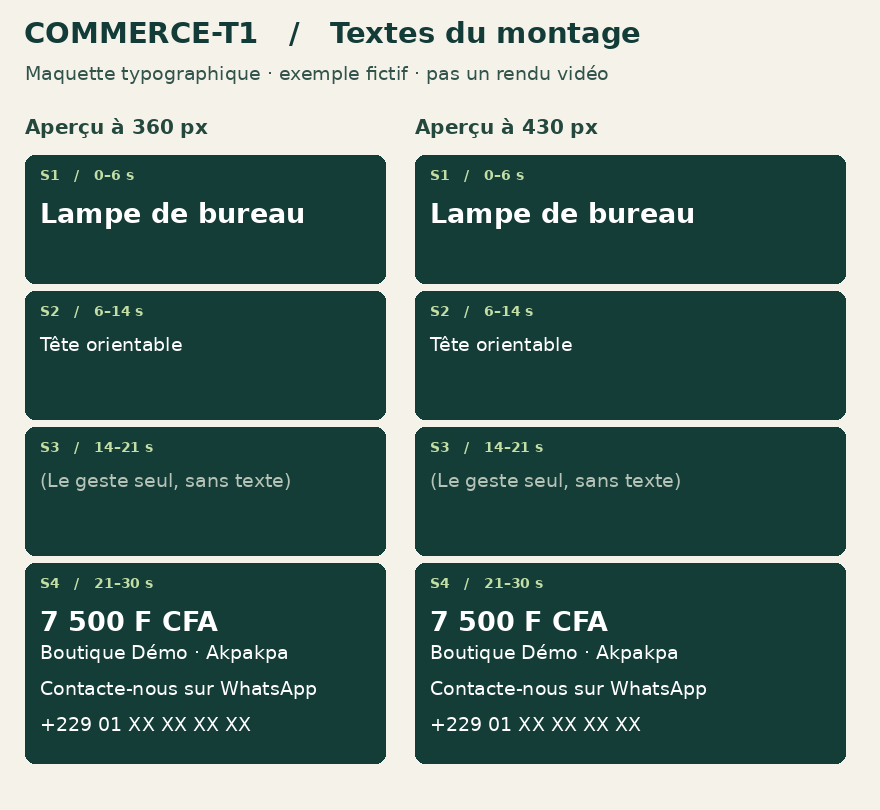
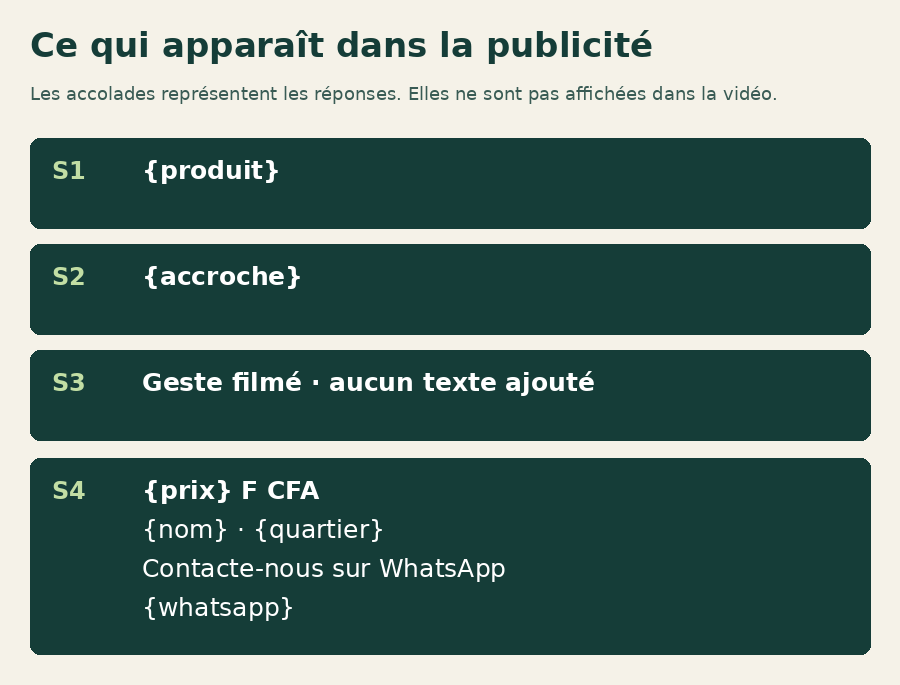
Partir des six réponses du commerçant sans produit imposé dans le formulaire, l’aperçu ni les tests

Changed region(s): [[0.0307, 0.0, 0.9818, 0.981]]

diff --git a/templates/commerce/commerce-t1/form/Formulaire-commerce.html b/templates/commerce/commerce-t1/form/Formulaire-commerce.html
@@ -1,0 +1,1 @@
[1 lines of base64/hex data omitted]

diff --git a/templates/commerce/commerce-t1/tests/controle_liaisons.py b/templates/commerce/commerce-t1/tests/controle_liaisons.py
@@ -1,15 +1,17 @@
 from pathlib import Path as P
-import hashlib,json,string
+import hashlib,json,string,secrets
 from jsonschema import Draft202012Validator as V
 root=P(__file__).resolve().parents[1]
 def read(p):return json.loads((root/p).read_text())
-c=read('montage/contrat-candidat.json');g=read(c['guide']['path']);v=V(read(c['formulaire']['schema']));a=read('montage/exemple-maquette.json');assert not v.is_valid(a) # numéro masqué de maquette : rejet en production
-# Numéro américain de plage de fiction réservée ; ne jamais composer.
-f={**a,'produit':'Sac en toile','accroche':'Poche intérieure','whatsapp':'+12025550142'};v.validate(f)
+c=read('montage/contrat-candidat.json');g=read(c['guide']['path']);v=V(read(c['formulaire']['schema']))
+# Données techniques changeantes : aucun nom de produit réel ; numéro de fiction réservé.
+f={k:k+'_'+secrets.token_hex(4) for k in ['produit','accroche','nom','quartier']};f.update(prix=1520,whatsapp='+12025550142');v.validate(f)
+assert not v.is_valid({**f,'whatsapp':'+229 XX XX XX XX'})
+assert not v.is_valid({**f,'produit':'   '})
 for key in g['required']:assert not v.is_valid({k:val for k,val in f.items() if k!=key})
 sc=c['scenes'];assert [x['prise'] for x in sc]==[f'prise_validee_S{i}' for i in range(1,5)];assert [x['sortie_s'] for x in sc]==[[0,6],[6,14],[14,21],[21,30]];assert c['duree_s']==30
 for x,guide in zip(sc,g['scenes']):
  begin,end=x['source_s'];assert 0<=begin<end<=guide['capture'] and end-begin==guide['kept']==x['sortie_s'][1]-x['sortie_s'][0]
 class F(string.Formatter):
  def format_field(self,v,s):return f'{v:,} F CFA'.replace(',',' ') if s=='fcfa' else super().format_field(v,s)
-fmt=F();resolved=[[fmt.format(line,**f) for line in x['textes']] for x in sc];assert resolved==[['Sac en toile'],['Poche intérieure'],[],['7 500 F CFA','Boutique Démo · Akpakpa','Contacte-nous sur WhatsApp','+12025550142']];assert c['guide']['sha256']==hashlib.sha256((root/c['guide']['path']).read_bytes()).hexdigest();assert [e['motif'] for e in c['effets']]==list('ABCDEFGH');assert c['reference']['url']==read('research/references.json')[1]['page'];assert all(hashlib.sha256((root/'assets/fonts'/name).read_bytes()).hexdigest()==h for name,h in c['polices'].items());print('PASS — guide, référence 2, six omissions rejetées, numéro masqué rejeté, substitution avec un second produit, quatre sources ordonnées, fenêtres, 30 s, huit motifs, deux polices. Tests locaux de contrat uniquement : aucun rendu ni CI.')
+fmt=F();resolved=[[fmt.format(line,**f) for line in x['textes']] for x in sc];assert resolved==[[f['produit']],[f['accroche']],[],['1 520 F CFA',f['nom']+' · '+f['quartier'],'Contacte-nous sur WhatsApp',f['whatsapp']]];assert c['guide']['sha256']==hashlib.sha256((root/c['guide']['path']).read_bytes()).hexdigest();assert [e['motif'] for e in c['effets']]==list('ABCDEFGH');assert c['reference']['url']==read('research/references.json')[1]['page'];assert all(hashlib.sha256((root/'assets/fonts'/name).read_bytes()).hexdigest()==h for name,h in c['polices'].items());print('PASS — guide, référence 2, six omissions rejetées, numéro masqué rejeté, liaisons avec des valeurs techniques générées, sans produit prédéfini, quatre sources ordonnées, fenêtres, 30 s, huit motifs, deux polices. Tests locaux de contrat uniquement : aucun rendu ni CI.')

diff --git a/templates/commerce/commerce-t1/form/QUESTIONS.md b/templates/commerce/commerce-t1/form/QUESTIONS.md
@@ -1,25 +1,14 @@
-# COMMERCE-T1 · Ce que le commerçant renseigne
+# Les six questions du commerçant
 
-**Proposition de saisie · 30 secondes imposées · quatre scènes.** Les six clés viennent du socle décrit dans `autonome.md`, étape 5. Les six réponses sont requises. Les limites de saisie restent proposées ; ce document ne constitue pas un schéma publié.
+Toutes les réponses sont obligatoires. Aucun produit n’est choisi ou proposé par défaut. [Ouvrir le formulaire de saisie et son aperçu](Formulaire-commerce.html) (télécharger puis ouvrir dans un navigateur). Aucune transmission de données depuis cette démonstration.
 
-| Question affichée | Clé | Règle proposée | Exemple fictif | Utilisation exacte |
-|---|---|---|---|---|
-| Comment s’appelle ton commerce ? | `nom` | Obligatoire · 1–40 caractères | Boutique Démo | S4, signature au-dessus du contact. |
-| Quel produit ou service veux-tu mettre en avant ? | `produit` | Obligatoire · 1–45 caractères | Lampe de bureau | S1, titre après l’ouverture. |
-| Quel est son prix en F CFA ? | `prix` | Obligatoire · montant entier de 1 à 9 chiffres ; unité déjà affichée. | 7500 | S4, mis en forme : 7 500 F CFA. |
-| Sur quel numéro WhatsApp peut-on te contacter ? | `whatsapp` | Obligatoire pour cette fin de vidéo · indicatif pays et numéro professionnel autorisé ; 15 chiffres max., hors « + ». Espaces tolérés à la saisie. | +229 01 XX XX XX XX | S4, instruction de contact + numéro. Exemple masqué, jamais accepté en production. |
-| Dans quel quartier se trouve ton commerce ? | `quartier` | Obligatoire · 1–40 caractères | Akpakpa | S4 après le nom. |
-| Quel détail veux-tu montrer sur ce produit ou ce service ? | `accroche` | Obligatoire · 1–55 caractères ; une phrase courte et vérifiable. | Tête orientable | S2. |
+| Question | Réponse du commerçant | Dans la vidéo |
+|---|---|---|
+| Comment s’appelle ton commerce ? | `nom` | S4 · nom du commerce |
+| Quel produit ou service veux-tu présenter ? | `produit` | S1 · titre, exactement comme saisi |
+| Quel est son prix en F CFA ? | `prix` | S4 · montant en F CFA |
+| Sur quel numéro WhatsApp peut-on te contacter ? | `whatsapp` | S4 · contact autorisé |
+| Dans quel quartier se trouve ton commerce ? | `quartier` | S4 · après le nom du commerce |
+| Quel détail veux-tu montrer ? | `accroche` | S2 · détail saisi |
 
-### Exemple : tous les textes effectivement montrés
-
-Données fictives, numéro délibérément non composable. Les intitulés de scènes ne sont pas incrustés.
-
-| Scène proposée | Texte exact à l’écran |
-|---|---|
-| S1 · 0–6 s | **Lampe de bureau** |
-| S2 · 6–14 s | **Tête orientable** |
-| S3 · 14–21 s | Aucun texte : la main oriente la tête de la lampe. |
-| S4 · 21–30 s | **7 500 F CFA**<br>**Boutique Démo · Akpakpa**<br>**Contacte-nous sur WhatsApp**<br>**+229 01 XX XX XX XX** |
-
-Les quatre lignes finales restent immobiles de 22,3 à 29,3 s. Si une donnée obligatoire manque, indiquer la question à compléter avant de préparer le montage. Aucun CTA, script, décor, transition ou prompt à rédiger par le commerçant. Le montage utilise uniquement les réponses et les quatre prises ; il n’invente aucun avantage, tarif, lieu ni numéro. Pas de moteur, de police finale ou d’écran validé à cette étape.
+S3 montre le geste filmé, sans texte ajouté. Les intitulés des champs ne deviennent jamais du texte publicitaire. Les durées des quatre scènes restent 6 / 8 / 7 / 9 secondes.

diff --git a/templates/commerce/commerce-t1/research/reverse-engineering/REPORT.md b/templates/commerce/commerce-t1/research/reverse-engineering/REPORT.md
@@ -34,7 +34,7 @@ Aperçu analysé : **720 × 1280, 30 i/s, 677 images, 22,57 s**. SHA-256 `c200db
 |---|---|---|---|
 | **S1 · 0–6 s · Identifier** | « Pose l’article sur un fond simple. Filme-le en entier, bien éclairé, sans bouger. » Laisser un peu d’air autour. | Tableau 1 : silhouette entière et nom du produit. Tableau 2 : le même article, légèrement agrandi, avec un autre décor. Un seul produit réel, pas un lot de deux. A à l’entrée, B à l’intérieur, C vers S2. | Produit coupé, contre-jour, nom masqué ou autre article qui attire davantage l’œil. |
 | **S2 · 6–14 s · Montrer le détail** | « Rapproche le téléphone avant de filmer. Montre le détail qui compte ; garde-le net et montre-le du doigt si c’est utile. » | Tableau 3 : détail en contexte. Tableau 4 : recadrage de ce même détail après le voile clair. L’accroche requise saisie par le commerçant, sans promesse ajoutée. C à l’entrée, D interne, E vers S3. | Détail hors foyer, doigt devant le détail, ou texte saisi qui ne correspond pas à l’image. |
-| **S3 · 14–21 s · Prouver l’usage** | « Cadre tes mains et l’article. Fais une seule fois le geste qui prouve son utilité. Garde le résultat visible. » Geste au milieu de la prise, résultat maintenu ensuite. | Tableau 5 : action sans effet pendant le geste clé. Tableau 6 : le résultat de la même prise remplit la carte. Pour une lampe, par exemple, l’allumage réel précède la carte ; ce n’est pas l’effet qui simule la lumière. E à l’entrée, F interne, G vers S4. | Moment décisif absent, hors champ ou caché par la main ; résultat invisible. |
+| **S3 · 14–21 s · Prouver l’usage** | « Cadre tes mains et l’article. Fais une seule fois le geste qui prouve son utilité. Garde le résultat visible. » Geste au milieu de la prise, résultat maintenu ensuite. | Tableau 5 : action sans effet pendant le geste clé. Tableau 6 : le résultat de la même prise remplit la carte. Le résultat doit être visible avant l’effet graphique. E à l’entrée, F interne, G vers S4. | Moment décisif absent, hors champ ou caché par la main ; résultat invisible. |
 | **S4 · 21–30 s · Acheter** | « Garde l’article visible près du comptoir. Laisse de la place en dessous, puis tiens le téléphone immobile. » | Tableau 7 : produit puis prix, nom du commerce, quartier renseigné, et moyen de contact fourni. Le contact reste immobile et lisible **de 22,3 à 29,3 s**. G à l’entrée, H en sortie. | Reflets, coordonnées de tiers visibles ou fond trop chargé derrière le texte. |
 
 ### Timeline cible des effets (secondes de sortie)

diff --git a/README.md b/README.md
@@ -11,3 +11,5 @@ Branche de travail : `feat/commerce-t1-contrat-montage`. La validation de connex
 - [Aperçu des textes avant rendu](templates/commerce/commerce-t1/montage/Apercu-textes.png)
 
 Contrôle local du contrat : `python templates/commerce/commerce-t1/tests/controle_liaisons.py` (Python et `jsonschema`). Cette étape ne livre pas encore de master vidéo. Aucun média CapCut tiers n'est redistribué.
+
+- [Formulaire vierge et aperçu des réponses par scène (télécharger puis ouvrir)](templates/commerce/commerce-t1/form/Formulaire-commerce.html)
